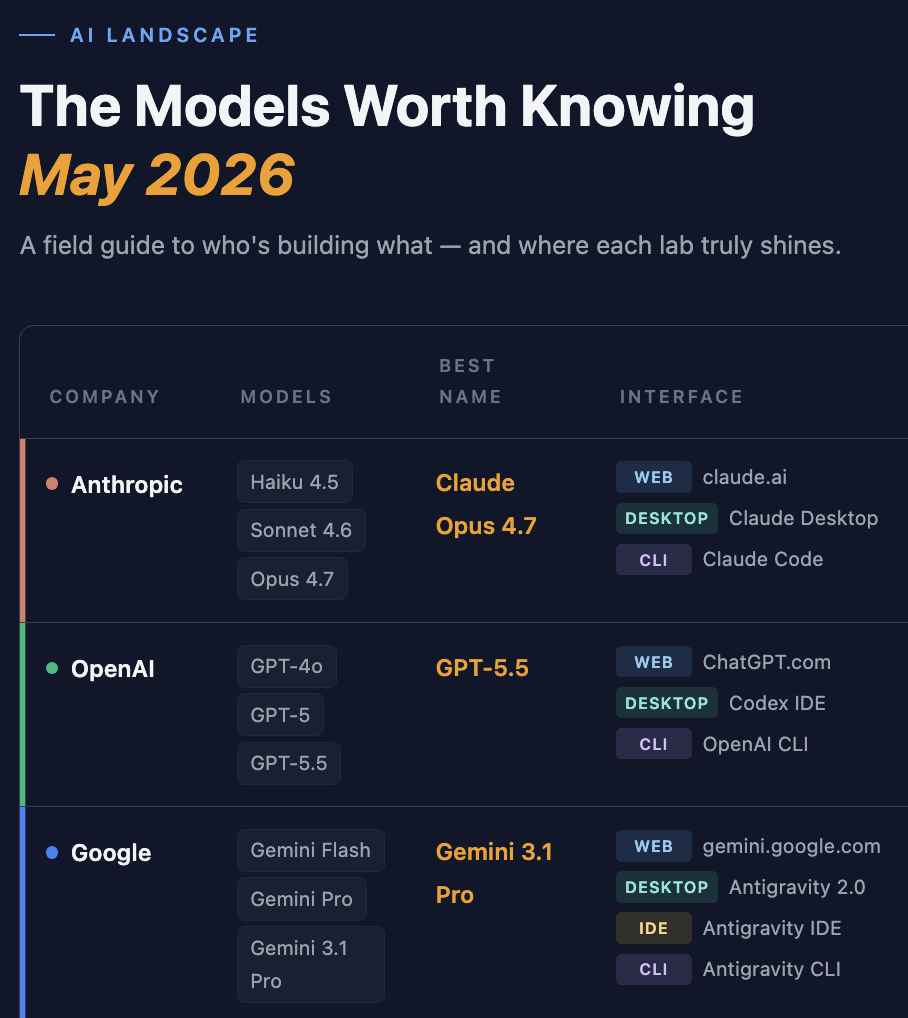
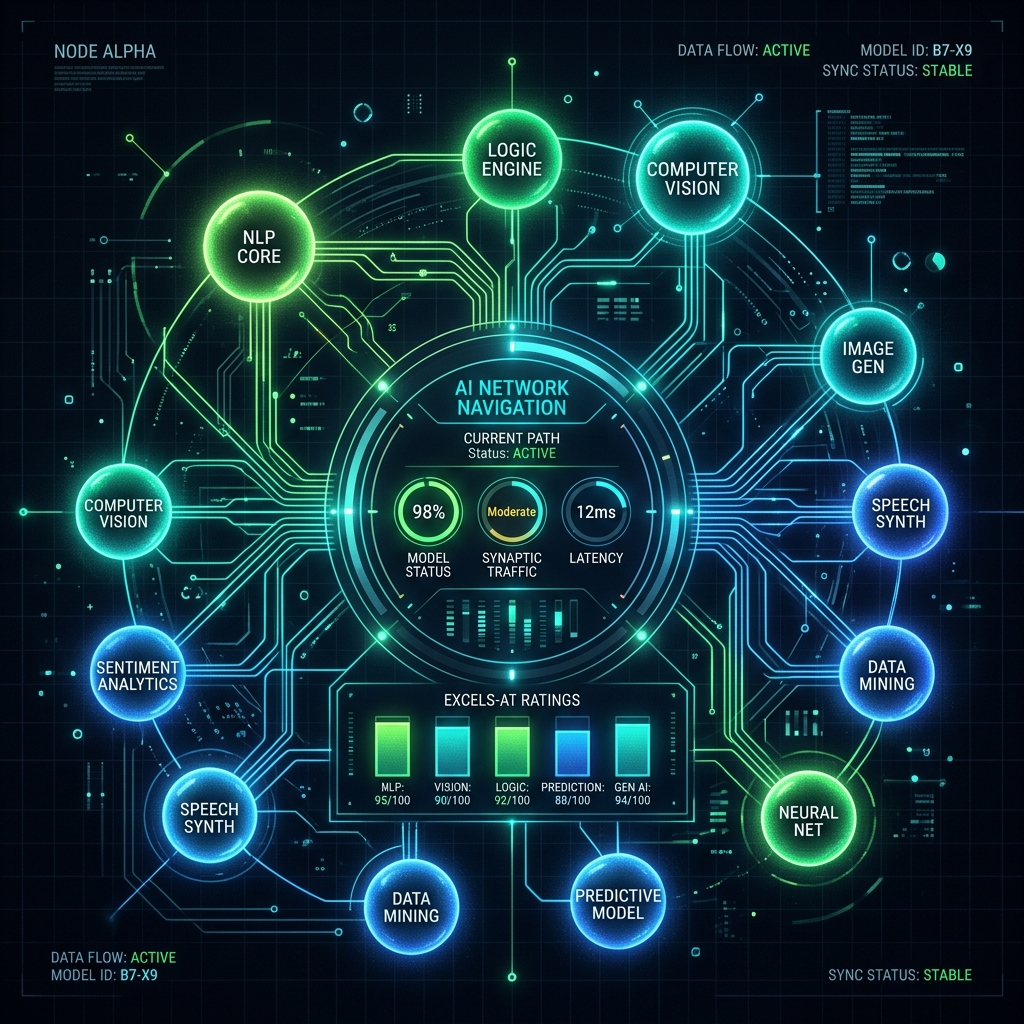
Update blog post thumbnails with custom futuristic AI graphics

diff --git a/content/ai-jargon/index.es.md b/content/ai-jargon/index.es.md
@@ -4,18 +4,15 @@ date: 2026-06-04
 description: "Por qué cambiar de modelo no es suficiente: cómo separar el modelo, el agente y la habilidad para construir un flujo de trabajo de IA coherente y multiherramienta."
 tags: ["IA", "productividad", "flujos de trabajo", "jerga"]
 ---
-
 El espacio de la IA avanza rápido y es bastante difícil mantenerse al día con todo este nuevo vocabulario. Hace unos meses empecé a usar múltiples herramientas de IA de forma simultánea: Claude Code para programación, OpenCode en la terminal, Cowork para tareas de archivos y Antigravity para páginas web. Lo que noté rápidamente es que los mismos conceptos reciben nombres diferentes según quién haya creado la herramienta, y la gente utiliza "modelo", "agente" e "IA" de manera intercambiable, lo que genera una confusión real cuando intentas configurar un flujo de trabajo coherente.
 
-Vale la pena separar claramente tres conceptos: el **modelo**, el **agente** y la **habilidad** (*skill*). Para mí es más fácil entender esto mediante una analogía con la cocina. El modelo es el cerebro del chef: sabe cocinar, pero no puede producir nada por sí mismo. En ese contexto, el "agente" es la cocina: el espacio de trabajo donde el modelo realmente opera, con acceso a tus archivos, tu terminal y tu navegador. OpenCode, Hermes, Claude Code y Cowork no son modelos; son cocinas que ejecutan modelos en su interior. El mismo chef (por ejemplo, Claude Sonnet) puede trabajar en diferentes cocinas y producir resultados muy distintos según las herramientas que esa cocina tenga disponibles. Continuando con la analogía, una "habilidad" (o *skill*) es la receta: un conjunto de instrucciones paso a paso escritas una sola vez para una tarea específica —como cómo formatear tus reportes, cómo ejecutar tu análisis o qué bibliotecas usar. Piénsalo así: la misma cocina y el mismo chef, pero con una receta diferente, dan como resultado un plato final totalmente distinto. De igual manera, la misma receta y la misma cocina, pero con un chef diferente, también variarán el resultado.
+Vale la pena separar claramente tres conceptos: el **modelo**, el **agente** y la **habilidad** (*skill*). Para mí es más fácil entender esto mediante una analogía con la cocina. El modelo es el cerebro del chef: sabe cocinar, pero no puede producir nada por sí mismo. En ese contexto, el "agente" es la cocina: el espacio de trabajo donde el modelo realmente opera, con acceso a tus archivos, tu terminal y tu navegador. OpenCode, Hermes, Claude Code y Cowork no son modelos; son cocinas que ejecutan modelos en su interior. El mismo chef (por ejemplo, Claude Sonnet) puede trabajar en diferentes cocinas y producir resultados muy distintos según las herramientas que esa cocina tenga disponibles. Continuando con la analogía, una "habilidad" (o *skill*) es la receta: un conjunto de instrucciones paso a paso escritas una sola vez para una tarea específica, ejemplos: cómo formatear tus reportes, cómo ejecutar tu análisis o qué bibliotecas usar. Estarás de acuerdo que: la misma cocina y el mismo chef, pero con una receta diferente, dan como resultado un plato final totalmente distinto. De igual manera, la misma receta y la misma cocina, pero con un chef diferente, también variarán el resultado.
 
 La implicación práctica es que cambiar de modelo no mejora automáticamente tus resultados. Si tu cocina no está configurada y tus recetas no están escritas, incluso el mejor chef producirá comida mediocre. Mi opinión, que quizás sea un tanto controversial (*hot take*), es que configurar correctamente tu archivo `AGENTS.md` (o `claude.md`) produce resultados más consistentes que andar detrás del último lanzamiento de modelo. Piensa en ese archivo como el cuaderno personal que el chef lleva a cada cocina. Eso, sumado a la creación de una pequeña biblioteca de habilidades adaptadas a tus flujos de trabajo reales, es lo que marca la diferencia.
 
 La tabla interactiva de abajo ilustra cómo se combinan estas tres piezas para las tareas que más realizo: escribir documentos, ejecutar análisis de datos y actualizar este blog. Cada tarea utiliza una cocina, un chef y una receta diferentes, adaptados a ese objetivo específico.
 
 Actualmente estoy trabajando en una manera de mantener estos tres elementos organizados y listos para usar en diferentes conjuntos de herramientas, en una configuración que la gente llama "independiente del modelo" (*model-agnostic*). ¡Mantente atento a esa próxima publicación! Mientras tanto, me encantaría saber cómo es tu configuración. Puedes escribirme a [patricio@pperezh.com](mailto:patricio@pperezh.com).
-
-
 
 <div class="ai-kitchen">
   <table>
